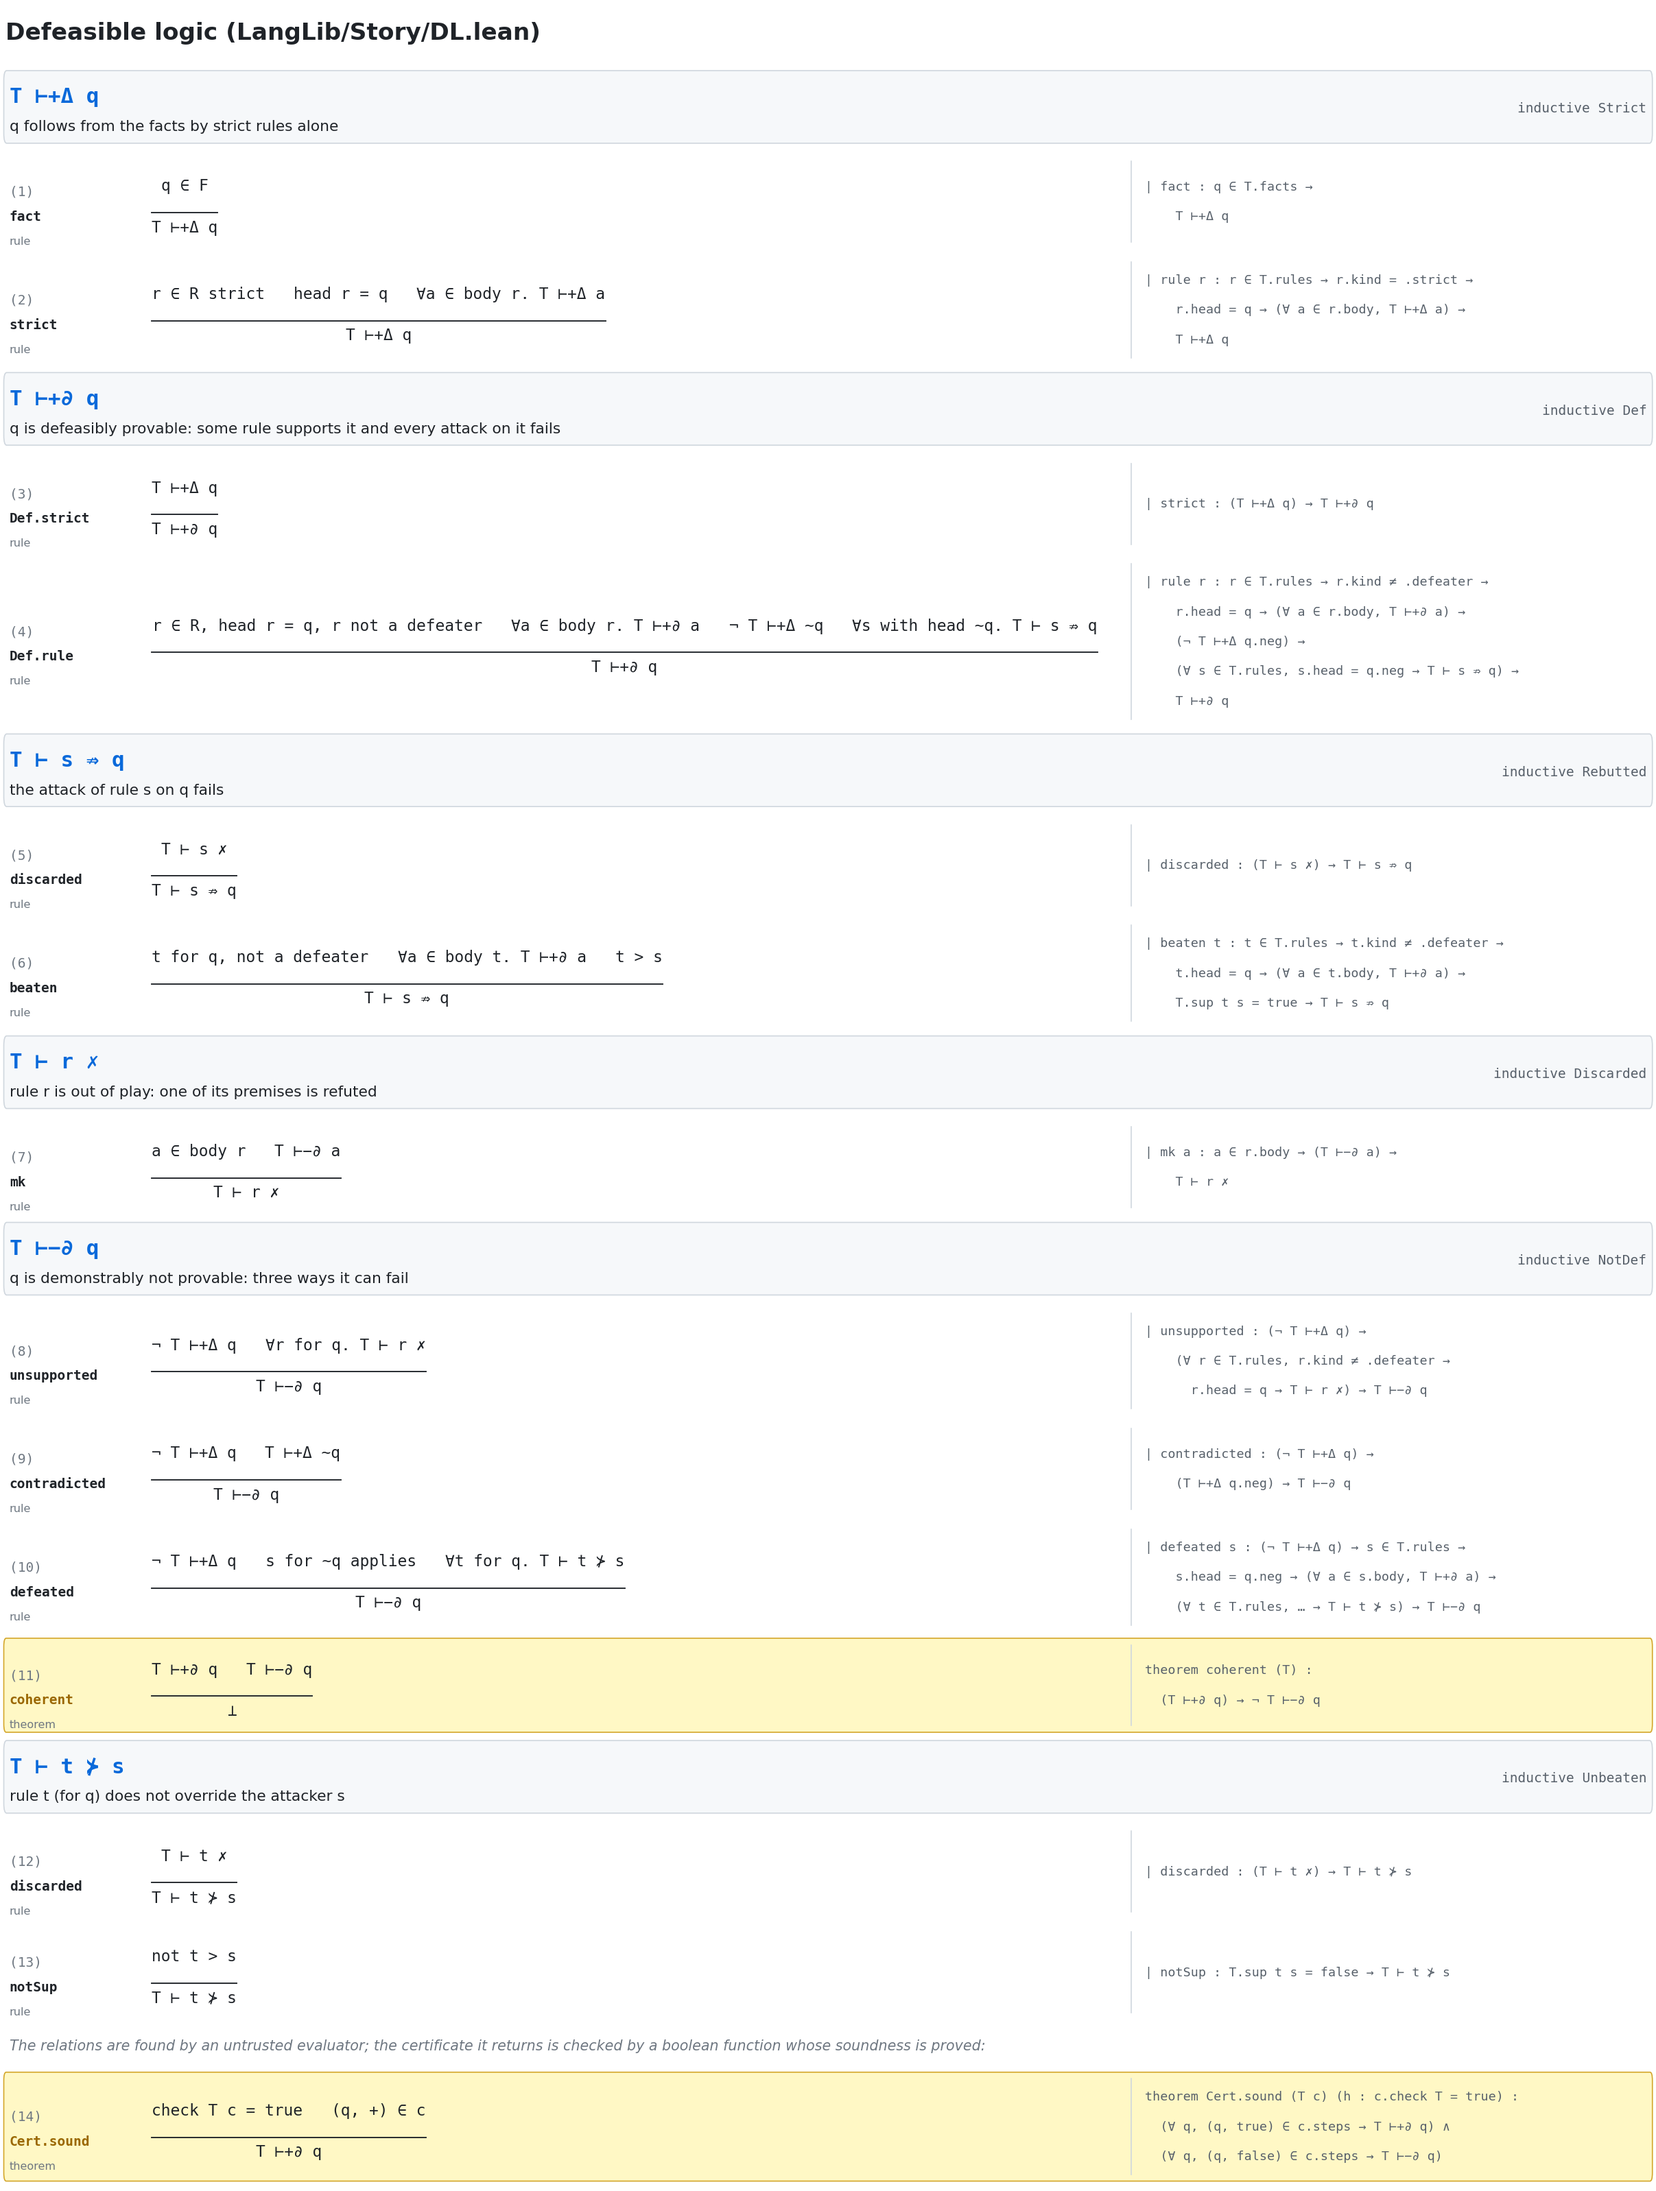
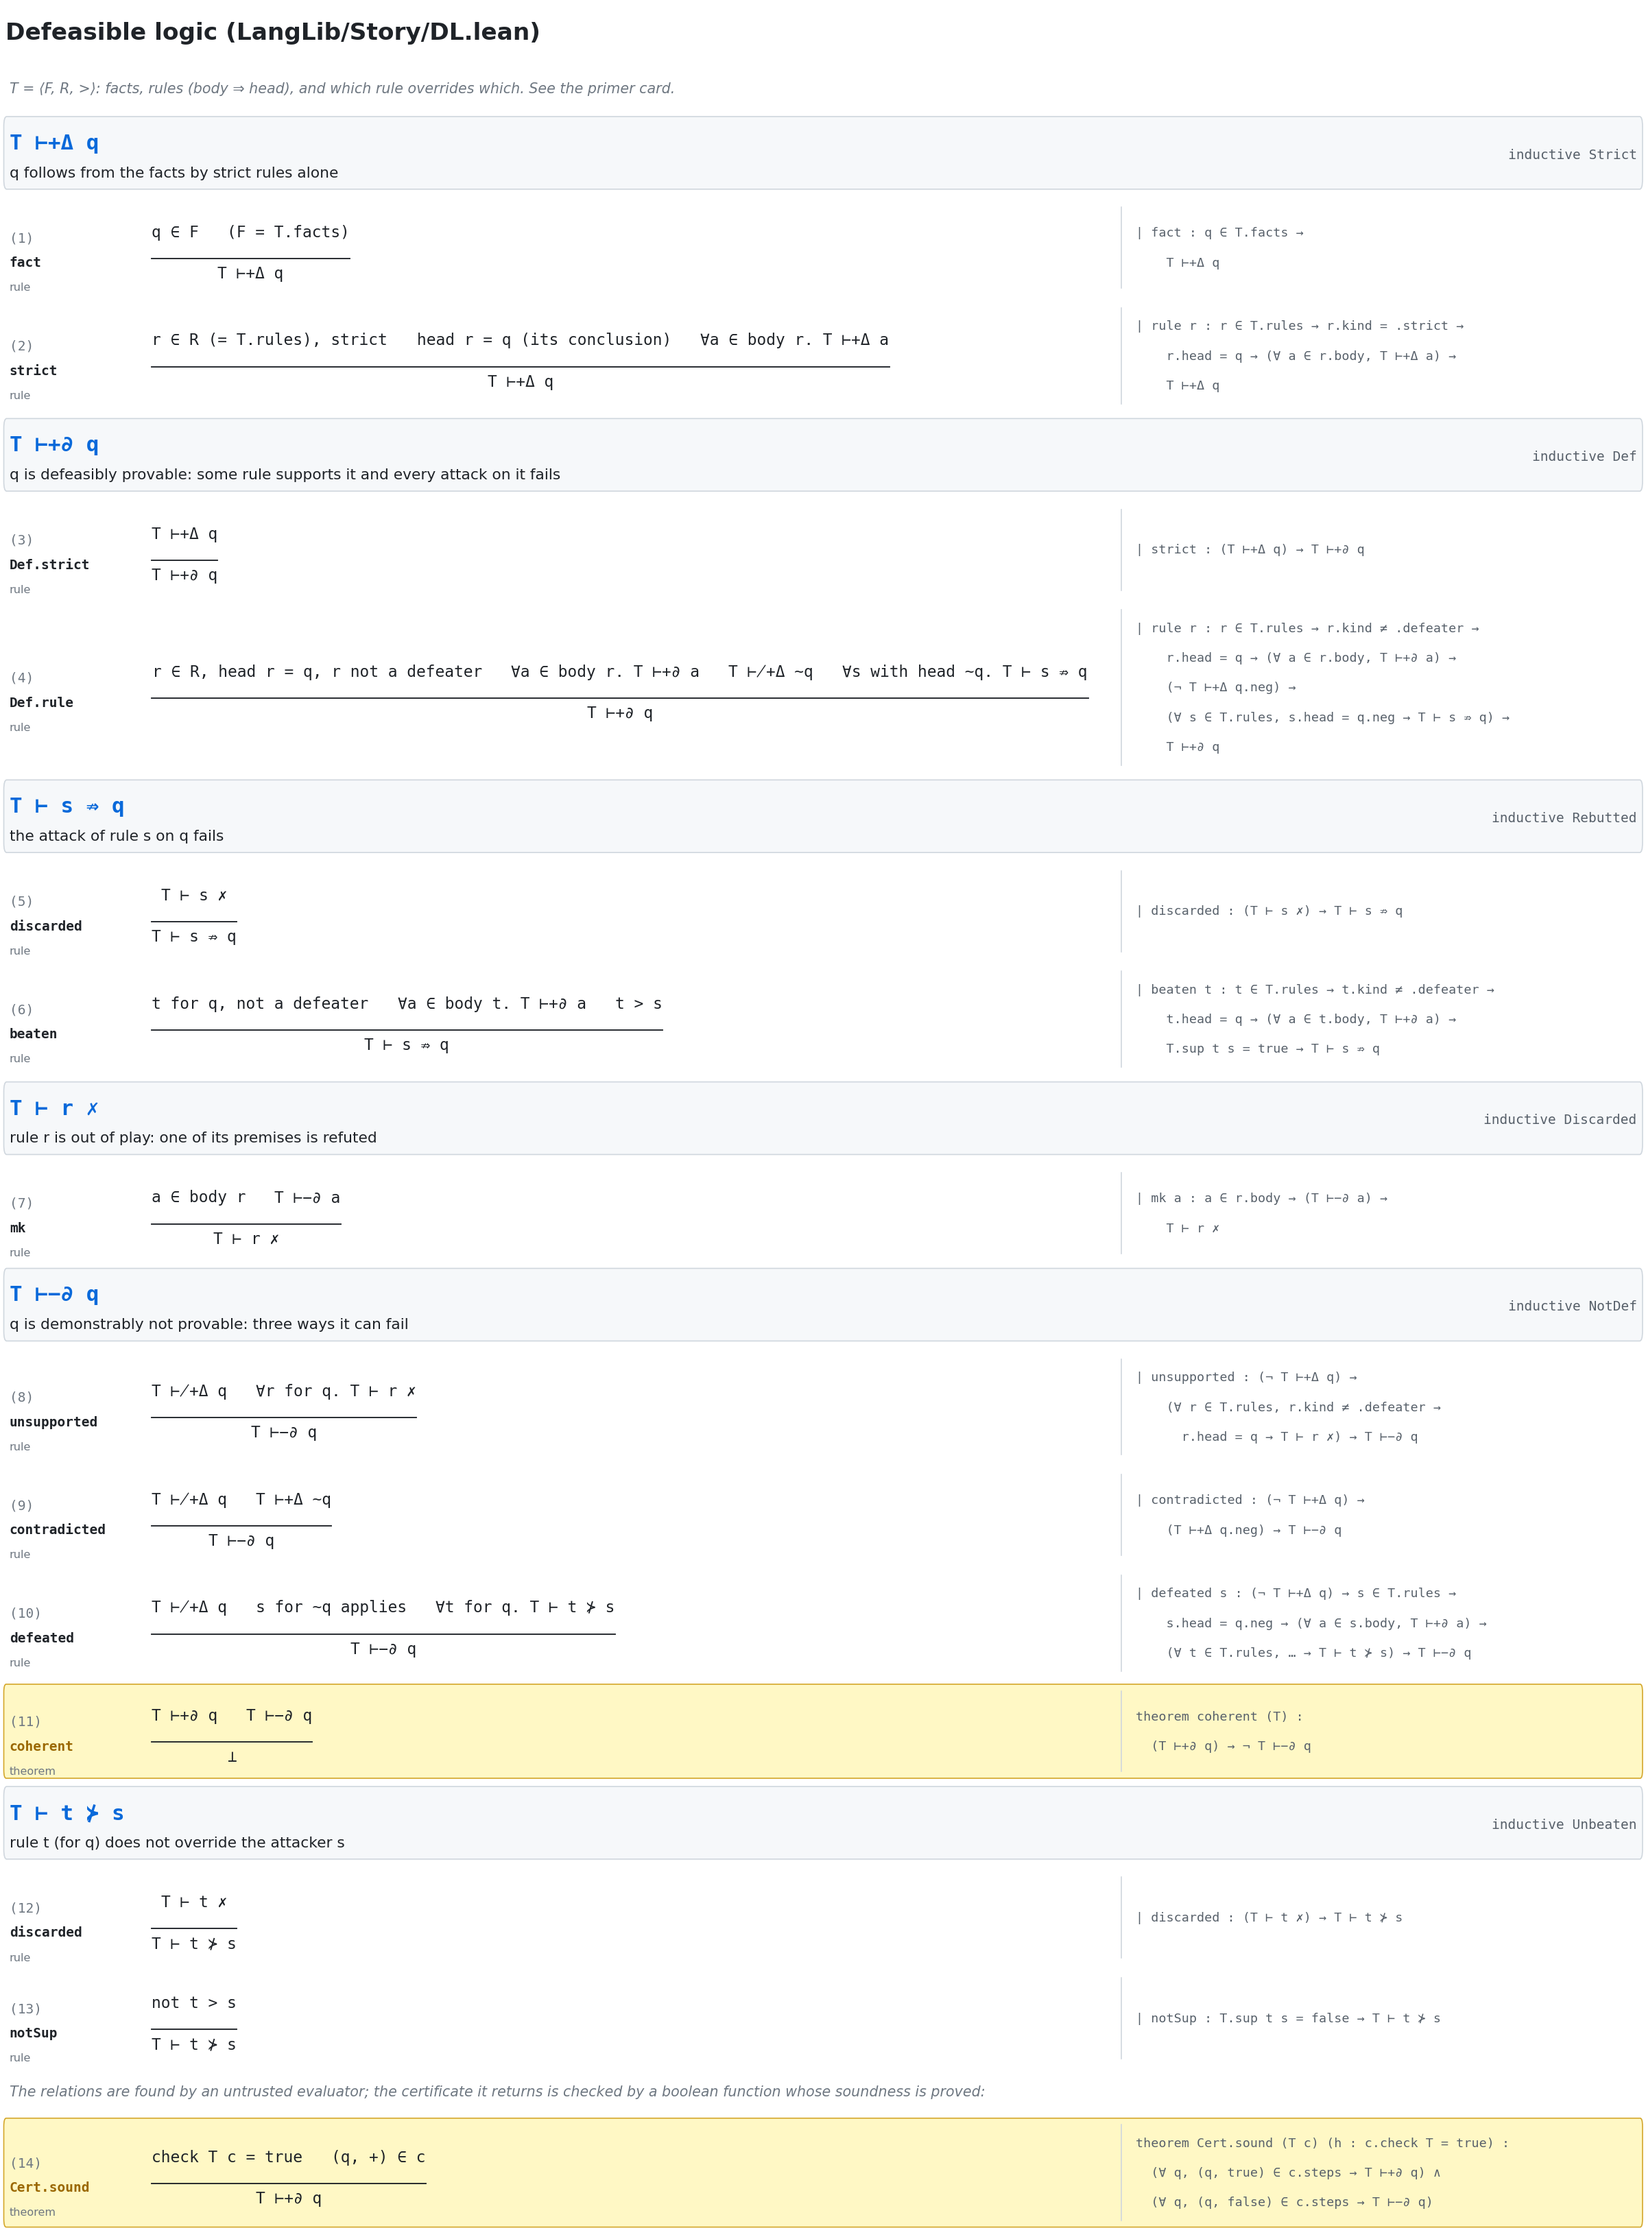
⊬ notation; primer and worked-example cards

diff --git a/viz/cards.py b/viz/cards.py
@@ -108,13 +108,14 @@ def key():
 
 def dl():
     return card("c1-defeasible.png", "Defeasible logic (LangLib/Story/DL.lean)", [
+        ("note", "T = ⟨F, R, >⟩: facts, rules (body ⇒ head), and which rule overrides which. See the primer card."),
         ("rel", "T ⊢+Δ q", "q follows from the facts by strict rules alone", "inductive Strict"),
-        ("rule", "fact", P("q ∈ F", concl="T ⊢+Δ q"), ["| fact : q ∈ T.facts →", "    T ⊢+Δ q"]),
-        ("rule", "strict", P("r ∈ R strict", "head r = q", "∀a ∈ body r. T ⊢+Δ a", concl="T ⊢+Δ q"),
+        ("rule", "fact", P("q ∈ F   (F = T.facts)", concl="T ⊢+Δ q"), ["| fact : q ∈ T.facts →", "    T ⊢+Δ q"]),
+        ("rule", "strict", P("r ∈ R (= T.rules), strict", "head r = q (its conclusion)", "∀a ∈ body r. T ⊢+Δ a", concl="T ⊢+Δ q"),
          ["| rule r : r ∈ T.rules → r.kind = .strict →", "    r.head = q → (∀ a ∈ r.body, T ⊢+Δ a) →", "    T ⊢+Δ q"]),
         ("rel", "T ⊢+∂ q", "q is defeasibly provable: some rule supports it and every attack on it fails", "inductive Def"),
         ("rule", "Def.strict", P("T ⊢+Δ q", concl="T ⊢+∂ q"), ["| strict : (T ⊢+Δ q) → T ⊢+∂ q"]),
-        ("rule", "Def.rule", P("r ∈ R, head r = q, r not a defeater", "∀a ∈ body r. T ⊢+∂ a", "¬ T ⊢+Δ ~q",
+        ("rule", "Def.rule", P("r ∈ R, head r = q, r not a defeater", "∀a ∈ body r. T ⊢+∂ a", "T ⊬+Δ ~q",
                                "∀s with head ~q. T ⊢ s ⇏ q", concl="T ⊢+∂ q"),
          ["| rule r : r ∈ T.rules → r.kind ≠ .defeater →", "    r.head = q → (∀ a ∈ r.body, T ⊢+∂ a) →",
           "    (¬ T ⊢+Δ q.neg) →", "    (∀ s ∈ T.rules, s.head = q.neg → T ⊢ s ⇏ q) →", "    T ⊢+∂ q"]),
@@ -126,11 +127,11 @@ def dl():
         ("rel", "T ⊢ r ✗", "rule r is out of play: one of its premises is refuted", "inductive Discarded"),
         ("rule", "mk", P("a ∈ body r", "T ⊢−∂ a", concl="T ⊢ r ✗"), ["| mk a : a ∈ r.body → (T ⊢−∂ a) →", "    T ⊢ r ✗"]),
         ("rel", "T ⊢−∂ q", "q is demonstrably not provable: three ways it can fail", "inductive NotDef"),
-        ("rule", "unsupported", P("¬ T ⊢+Δ q", "∀r for q. T ⊢ r ✗", concl="T ⊢−∂ q"),
+        ("rule", "unsupported", P("T ⊬+Δ q", "∀r for q. T ⊢ r ✗", concl="T ⊢−∂ q"),
          ["| unsupported : (¬ T ⊢+Δ q) →", "    (∀ r ∈ T.rules, r.kind ≠ .defeater →", "      r.head = q → T ⊢ r ✗) → T ⊢−∂ q"]),
-        ("rule", "contradicted", P("¬ T ⊢+Δ q", "T ⊢+Δ ~q", concl="T ⊢−∂ q"),
+        ("rule", "contradicted", P("T ⊬+Δ q", "T ⊢+Δ ~q", concl="T ⊢−∂ q"),
          ["| contradicted : (¬ T ⊢+Δ q) →", "    (T ⊢+Δ q.neg) → T ⊢−∂ q"]),
-        ("rule", "defeated", P("¬ T ⊢+Δ q", "s for ~q applies", "∀t for q. T ⊢ t ⊁ s", concl="T ⊢−∂ q"),
+        ("rule", "defeated", P("T ⊬+Δ q", "s for ~q applies", "∀t for q. T ⊢ t ⊁ s", concl="T ⊢−∂ q"),
          ["| defeated s : (¬ T ⊢+Δ q) → s ∈ T.rules →", "    s.head = q.neg → (∀ a ∈ s.body, T ⊢+∂ a) →",
           "    (∀ t ∈ T.rules, … → T ⊢ t ⊁ s) → T ⊢−∂ q"]),
         ("thm", "coherent", P("T ⊢+∂ q", "T ⊢−∂ q", concl="⊥"),
@@ -207,3 +208,76 @@ def minds():
 if __name__ == "__main__":
     for f in (key(), dl(), stories(), minds()):
         print(f)
+
+
+def doc(fname, title, blocks, W=112):
+    """blocks: (kind, text): 'h' heading, 'p' prose, 'm' monospace line, 'gap'."""
+    H = 2.5 + sum({"h": 1.9, "p": 1.15, "m": 1.1, "gap": 0.6}[k] for k, _ in blocks)
+    fig, ax = proofs.figure(W, H)
+    ax.text(0.6, H - 1.1, title, family=SANS, fontsize=FS * 1.5, fontweight="bold", color=INK, va="center")
+    y = H - 2.4
+    for k, t in blocks:
+        if k == "h":
+            y -= 1.0
+            ax.text(0.6, y, t, family=SANS, fontsize=FS * 1.15, fontweight="bold", color=RULE_C, va="center")
+            y -= 0.9
+        elif k == "p":
+            ax.text(1.2, y, t, family=SANS, fontsize=FS * 0.98, color=INK, va="center"); y -= 1.15
+        elif k == "m":
+            ax.text(2.0, y, t, family=MONO, fontsize=FS * 0.95, color=INK, va="center"); y -= 1.1
+        else:
+            y -= 0.6
+    out = OUT / fname
+    fig.savefig(out, dpi=150, facecolor="white")
+    plt.close(fig)
+    return out
+
+
+def primer():
+    return doc("c1a-primer.png", "Before the rules: what T, F, R, head, strict, defeater and 'defeasibly' mean", [
+        ("h", "A theory T is a small database:  T = ⟨ F, R, > ⟩   (Lean: T.facts, T.rules, T.sup)"),
+        ("p", "F   facts: things simply given.   e.g. timid(Kiran), ally(Kiran, Mara), threatens(guard, Mara)"),
+        ("p", "R   rules: each rule r has premises  body r  and a conclusion  head r."),
+        ("p", ">   which rule overrides which. In stories it comes from the character's values: loyalty ≻ safety makes"),
+        ("p", "     a loyalty rule override a safety rule. Strict rules override everything."),
+        ("h", "Three kinds of rule (r.kind)"),
+        ("m", "strict       body → head    like logical implication; never overridden"),
+        ("m", "                            gagged(k) → ¬shouts(k, g)"),
+        ("m", "defeasible   body ⇒ head    'normally': holds unless something overrides it"),
+        ("m", "                            timid(k) ⇒ ¬shouts(k, g)          [safety]"),
+        ("m", "                            threatens(g,m), ally(k,m), near(k,m) ⇒ shouts(k, g)   [loyalty]"),
+        ("m", "defeater     body ⇝ head    can only BLOCK the opposite conclusion; never proves head by itself"),
+        ("m", "                            drunk(k) ⇝ shouts(k, g)   (a drunk timid person might shout)"),
+        ("h", "Three judgements, each a derivation (a proof tree built from the rules on the next card)"),
+        ("m", "T ⊢+Δ q    q follows from F by strict rules only: certain, can never be withdrawn"),
+        ("m", "T ⊢+∂ q    q is defeasibly provable: a derivation that may use 'normally' rules, in which every"),
+        ("m", "           rule arguing for ~q is beaten or out of play"),
+        ("m", "T ⊢−∂ q    there is provably no such derivation"),
+        ("m", "T ⊬+Δ q    short for ¬(T ⊢+Δ q);   ~q is the opposite literal (q negated)"),
+        ("p", "'Defeasibly' = 'by default, until defeated': adding facts can withdraw a conclusion (non-monotonic)."),
+        ("p", "Timid Kiran at the market: T ⊢+∂ ¬shouts.  Add threatens(guard, Mara):  T′ ⊢+∂ shouts.  Add only drunk(k):  neither."),
+    ])
+
+
+def example():
+    k = "shouts(k,g)"
+    return card("c1b-example.png", "Worked example: why  T ⊢+∂ shouts(k,g)  at the gate (k = Kiran, m = Mara, g = guard)", [
+        ("rel", "T = ⟨F, R, >⟩", "F = {timid(k), ally(k,m), near(k,m), threatens(g,m)}    > : protect > timidQuiet (loyalty ≻ safety)",
+         "Scene.shoutTheory"),
+        ("note", "R = { timidQuiet: timid(k) ⇒ ¬shouts [safety],  protect: threatens(g,m), ally(k,m), near(k,m) ⇒ shouts [loyalty],  gagged: gagged(k) → ¬shouts,  drink: drunk(k) ⇝ shouts }"),
+        ("rule", "facts", P("threatens(g,m) ∈ F", concl="T ⊢+Δ threatens(g,m)"),
+         ["Strict.fact", "(same for ally(k,m), near(k,m), timid(k))"]),
+        ("rule", "lift", P("T ⊢+Δ threatens(g,m)", concl="T ⊢+∂ threatens(g,m)"), ["Def.strict"]),
+        ("rule", "no gag", P("gagged(k) ∉ F", "no rule concludes gagged(k)", "T ⊬+Δ gagged(k)", concl="T ⊢−∂ gagged(k)"),
+         ["NotDef.unsupported"]),
+        ("rule", "gag rule out", P("gagged(k) ∈ body gagged", "T ⊢−∂ gagged(k)", concl="T ⊢ gagged ✗"), ["Discarded.mk"]),
+        ("rule", "attack 1 fails", P("T ⊢ gagged ✗", concl=f"T ⊢ gagged ⇏ {k}"), ["Rebutted.discarded"]),
+        ("rule", "attack 2 fails", P("protect applies (its body is +∂)", "protect > timidQuiet", concl=f"T ⊢ timidQuiet ⇏ {k}"),
+         ["Rebutted.beaten  (t := protect)"]),
+        ("rule", "conclusion", P("protect ∈ R, head = shouts", "body all +∂", f"T ⊬+Δ ¬{k}", "both attacks fail", concl=f"T ⊢+∂ {k}"),
+         ["Def.rule  (r := protect)"]),
+        ("thm", "so", P(f"T ⊢+∂ {k}", concl=f"¬ T ⊢−∂ {k}"), ["coherent: it is not also refuted"]),
+        ("note", "At the market there is no threats(merchant, m): protect is out of play (✗), timidQuiet applies and nothing overrides it,"),
+        ("rule", "market", P("timidQuiet applies", "protect: T ⊢ protect ⊁ timidQuiet (it is ✗)", f"T ⊬+Δ {k}", concl=f"T ⊢−∂ {k}"),
+         ["NotDef.defeated  (s := timidQuiet)", "→ the shout is out of character"]),
+    ])
